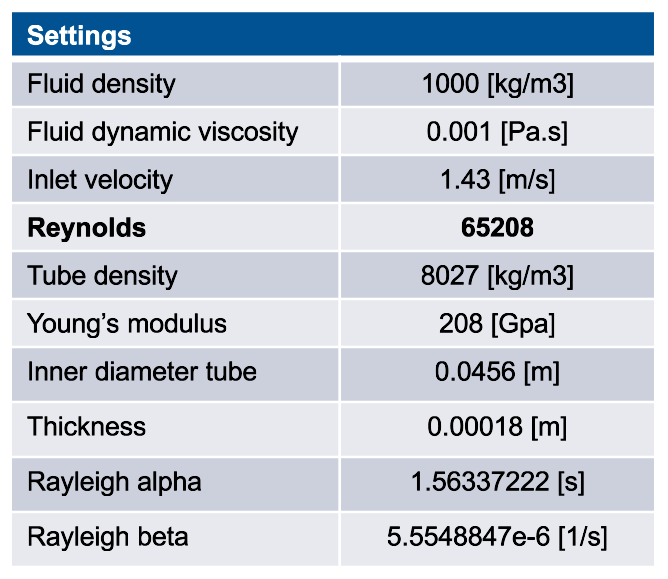
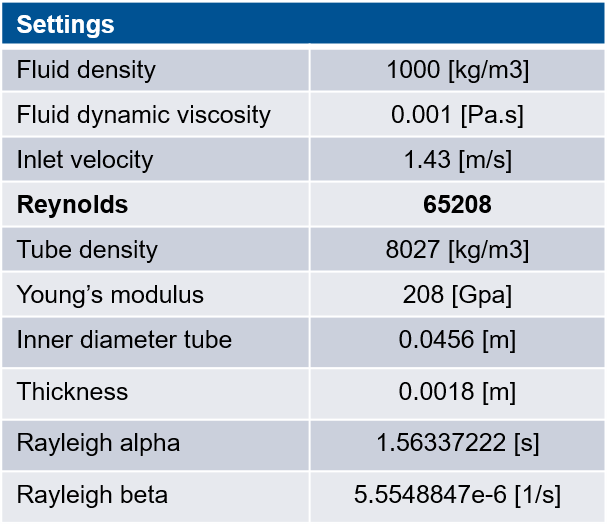
Update fsi properties table U-shaped Coriolis case

diff --git a/co_simulation/use_cases/fsi_Coriolis_mass_flow_meter/README.md b/co_simulation/use_cases/fsi_Coriolis_mass_flow_meter/README.md
@@ -17,8 +17,7 @@ You can find the schematic description of the problem and its properties in the 
 <table>
   <tr>
     <td><img src="data/fsi_problem_setup_fig.png" alt="Problem setup of a U-shaped Coriolis mass flow meter."></td>
-    <td><img src="![FS_prop](https://github.com/KratosMultiphysics/Examples/assets/62375973/31c37a2a-d1cc-488c-9646-e80780afdc5c)
-" alt="Fluid & structrure properties."></td>
+    <td><img src="data/fluid_structure_properties.png" alt="Fluid & structrure properties."></td>
   </tr>
   <tr>
     <td>Figure 1: Problem setup of a U-shaped Coriolis mass flow meter.</td>
